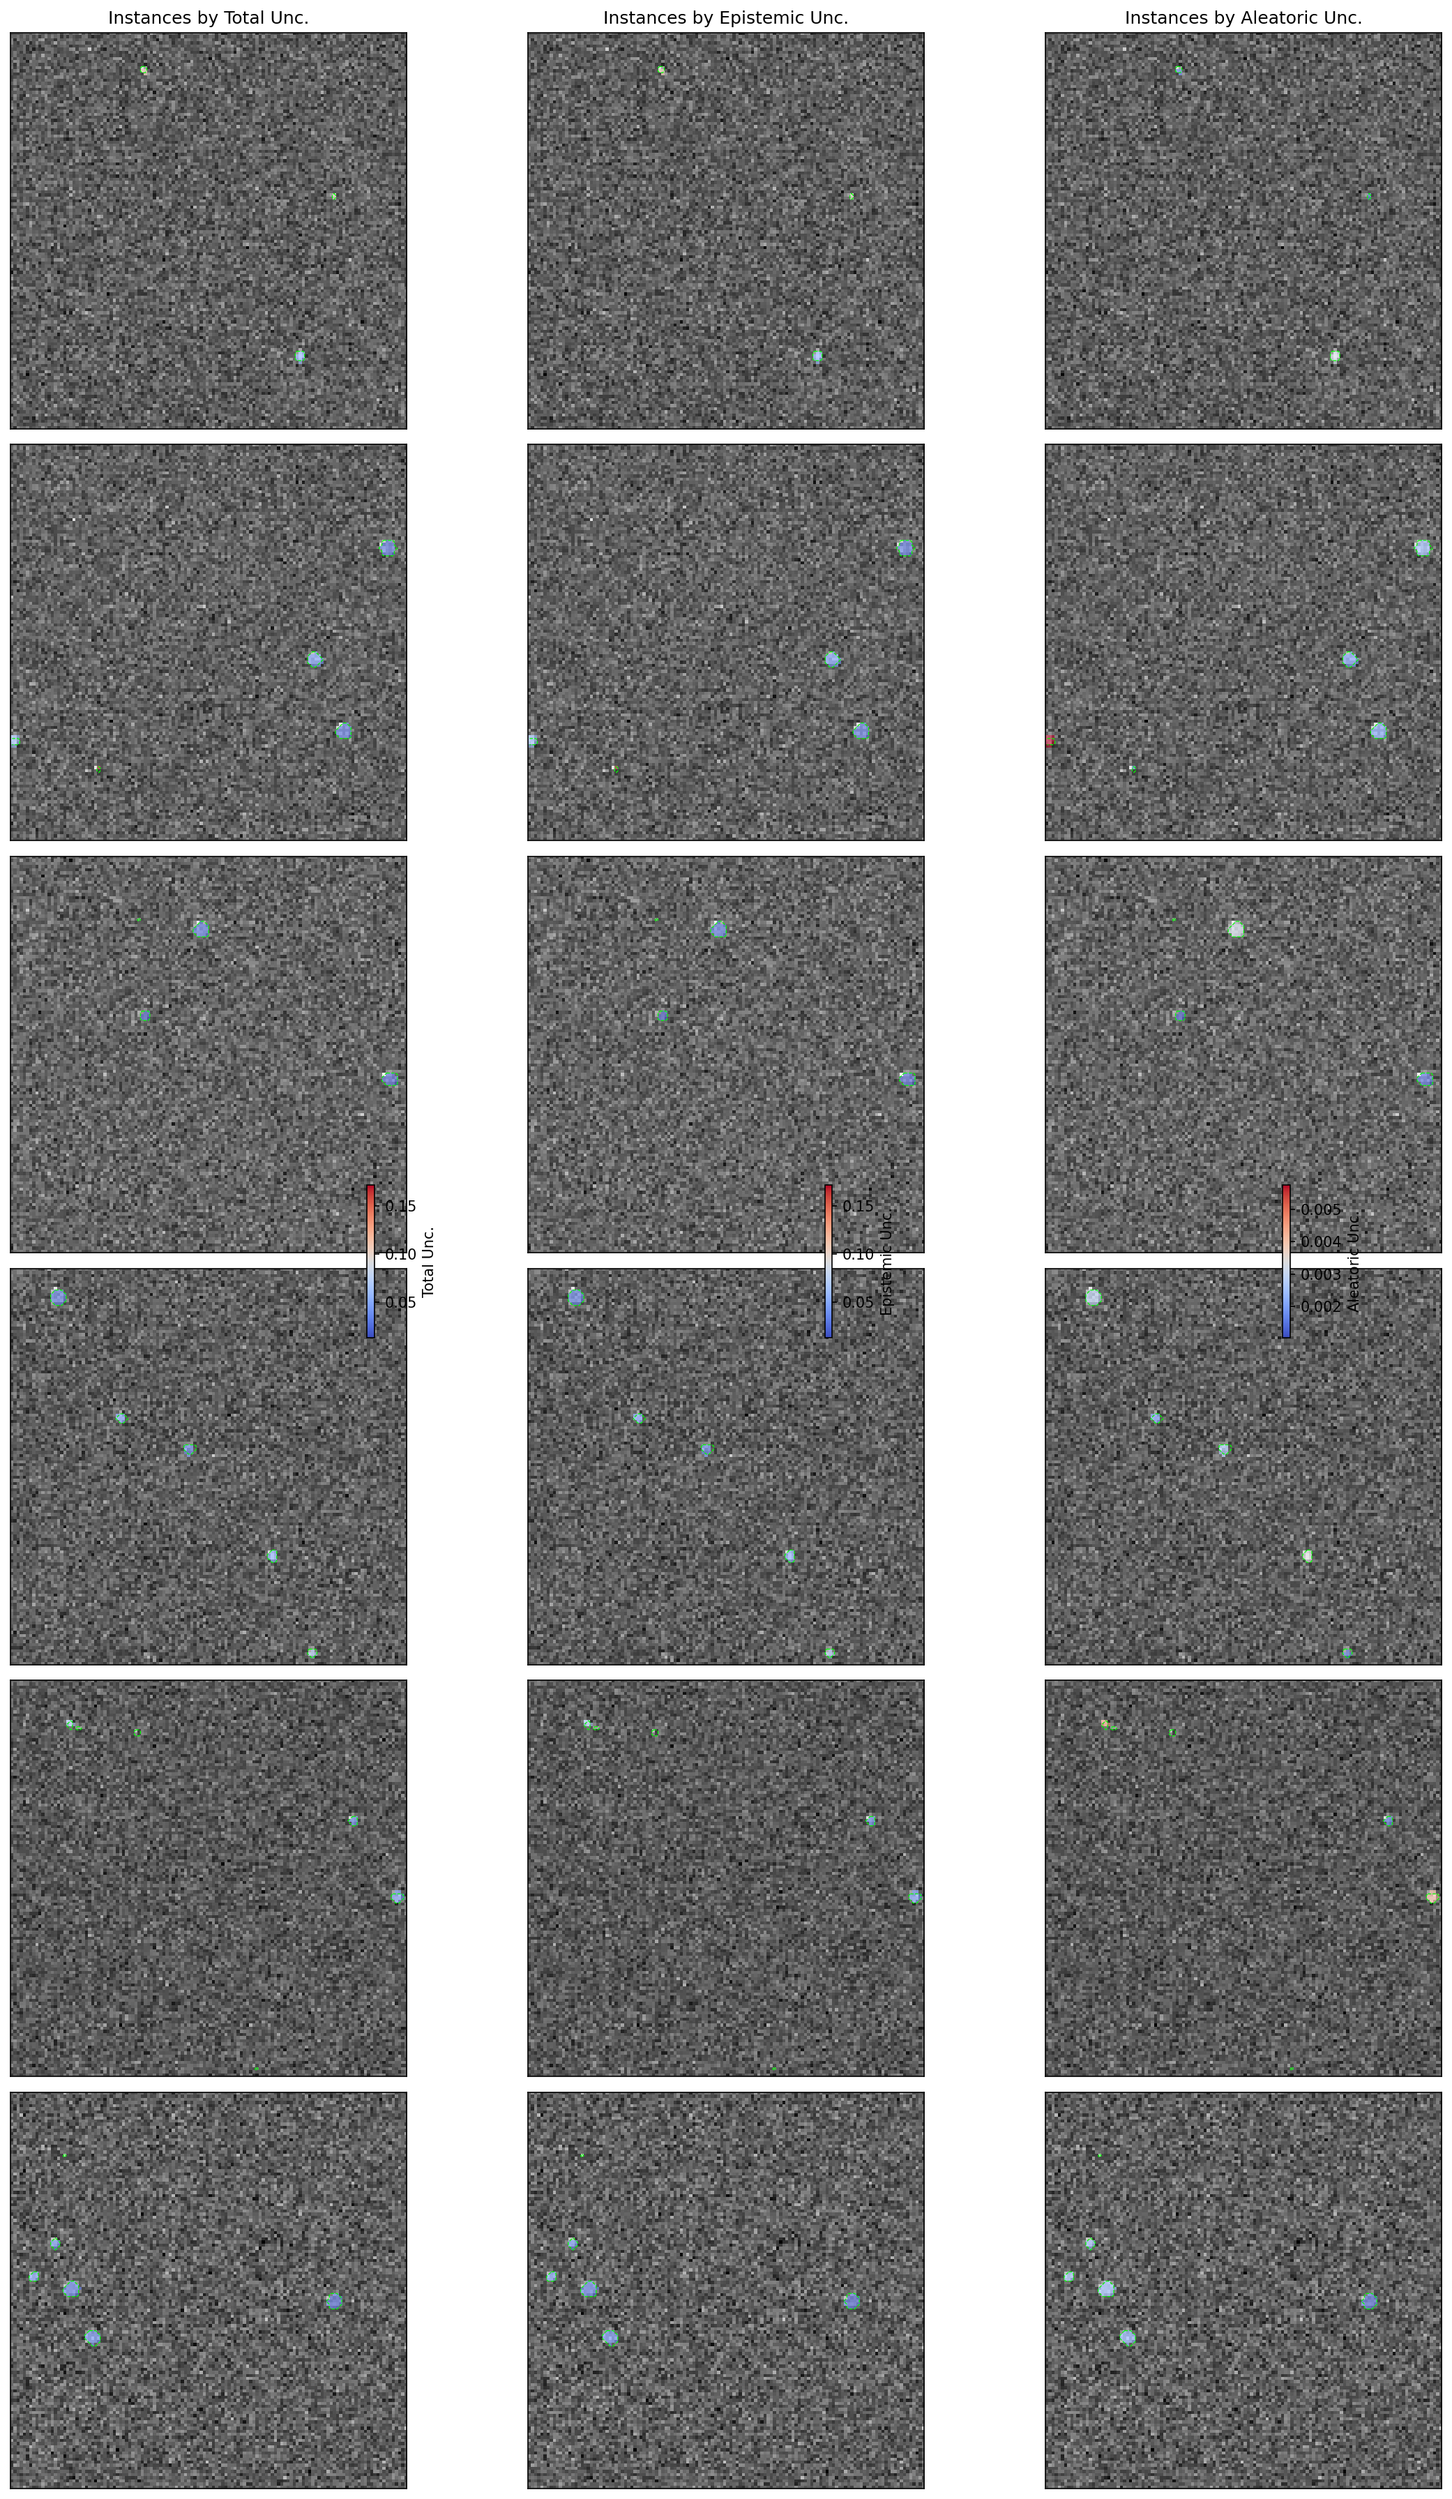
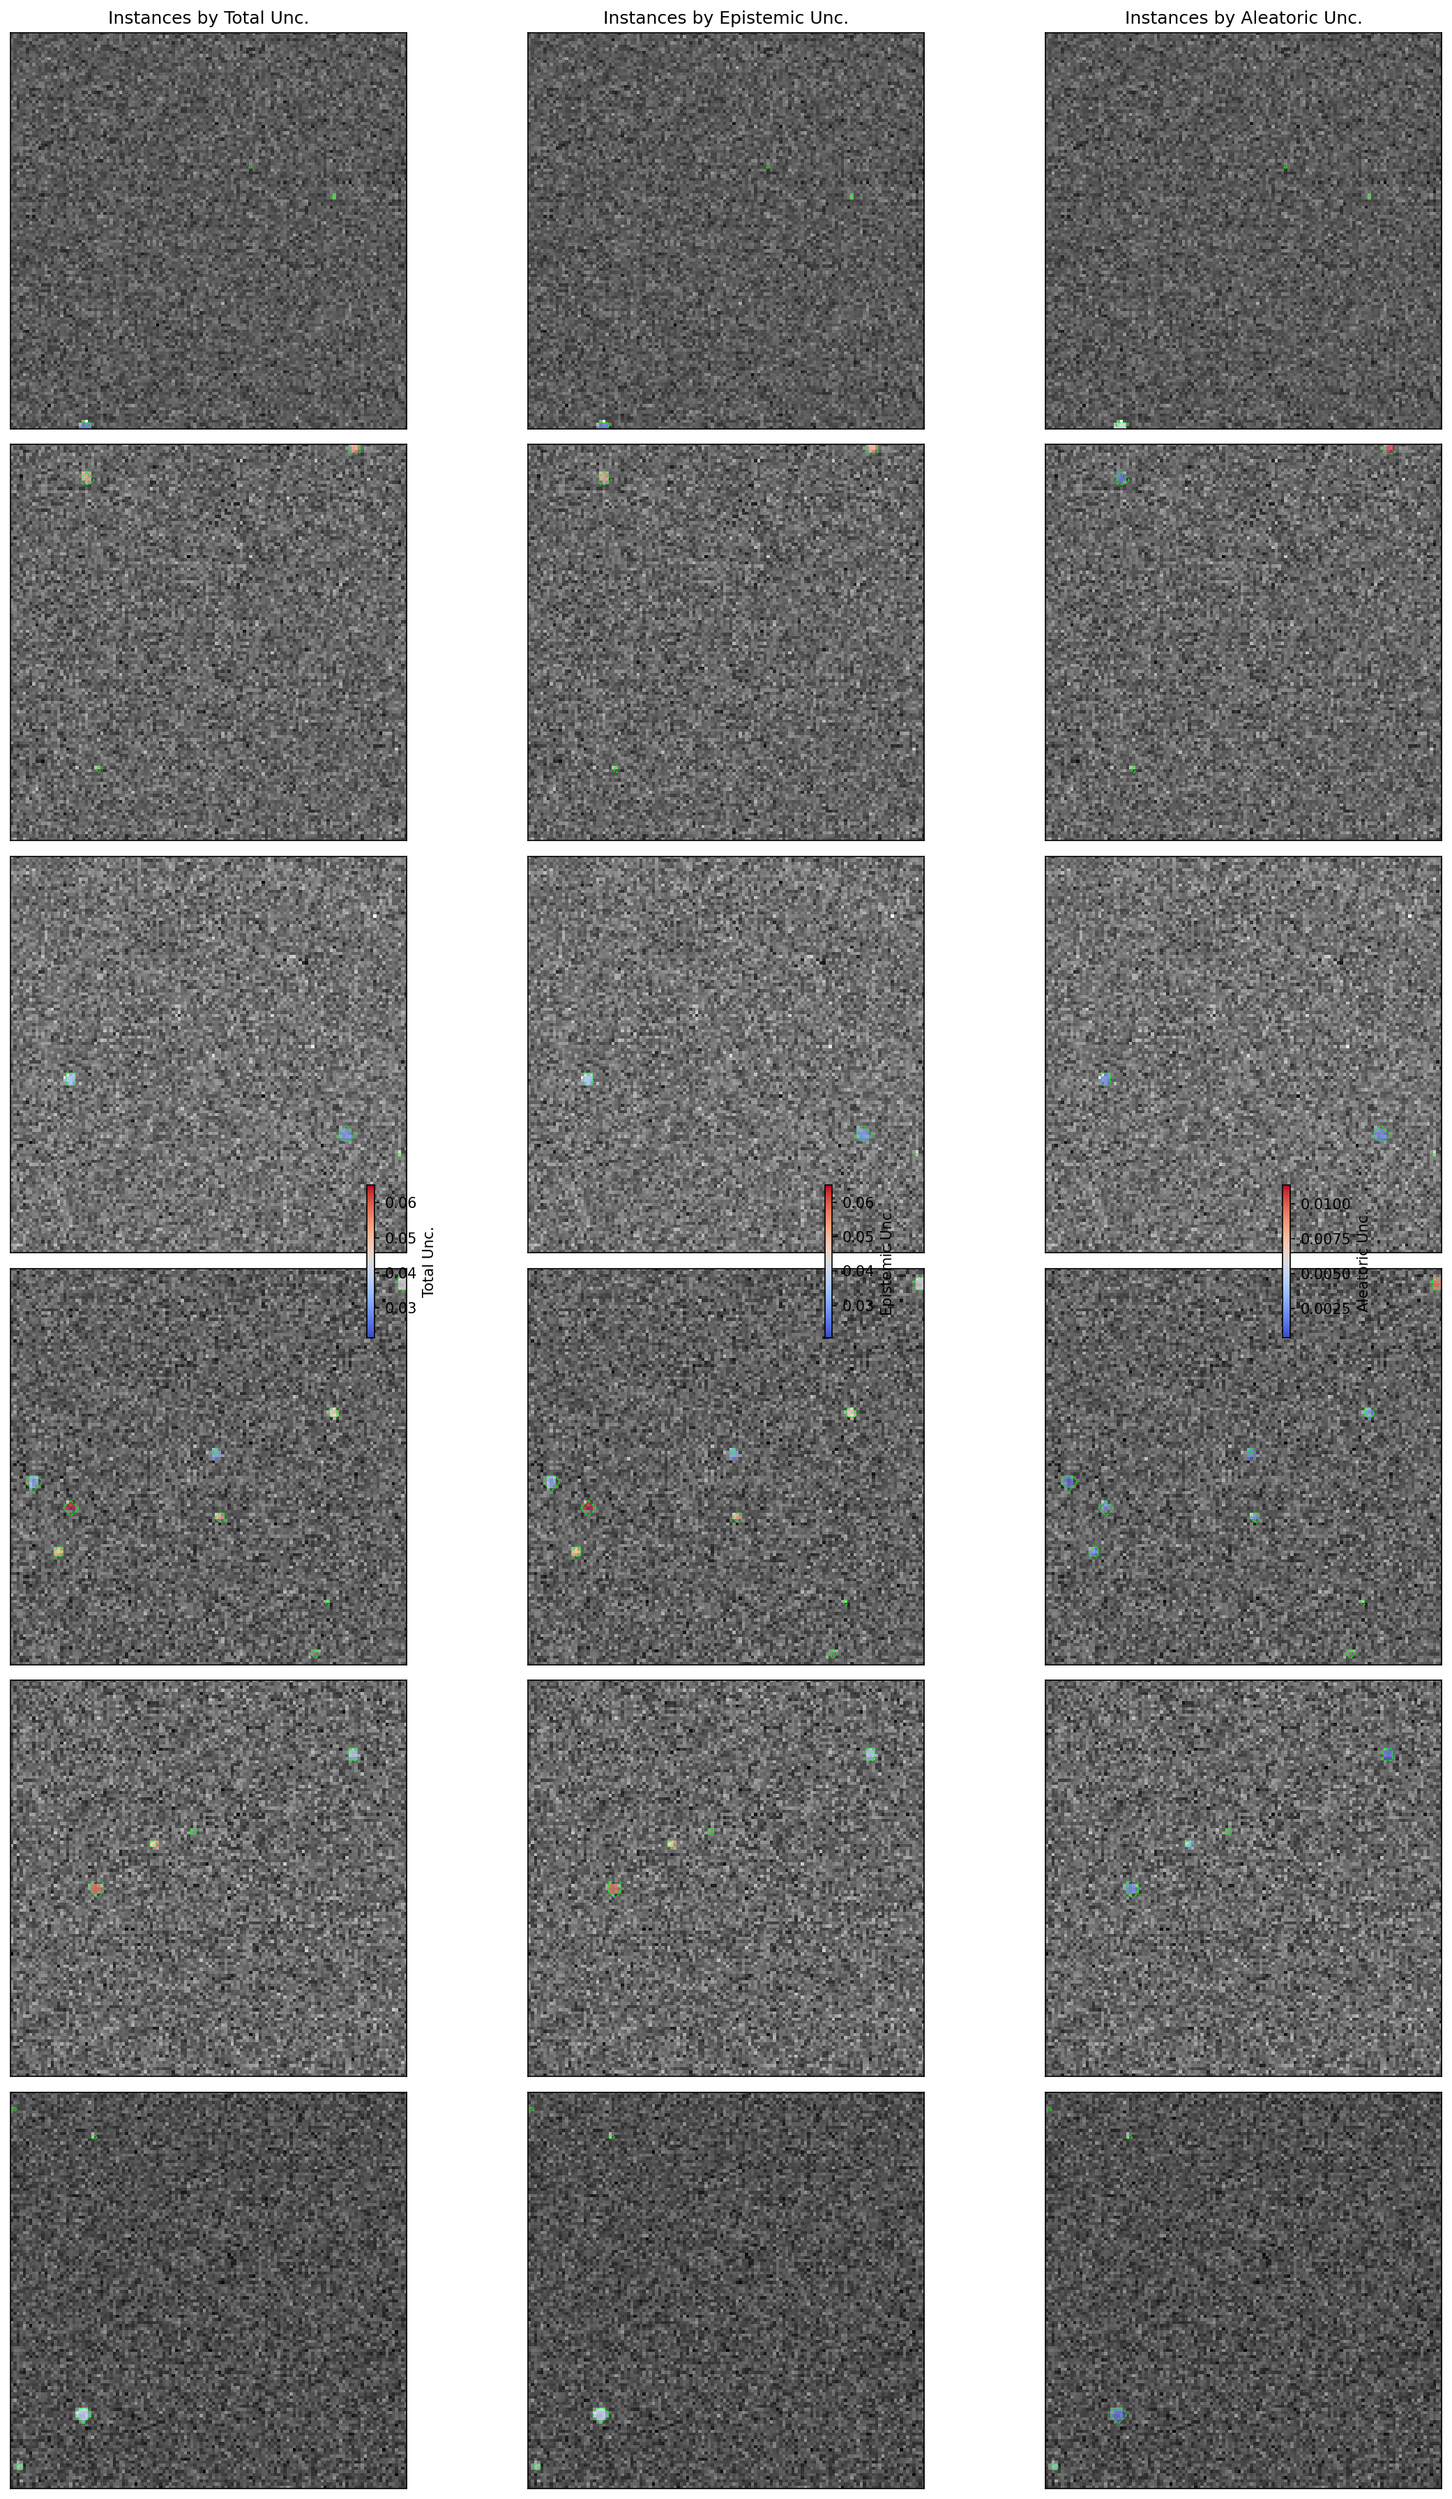
Randomize blob intensity (5-30) and regenerate all results
Changed generate_blob_images.py to sample blob intensity from
rng.integers(5, 31) instead of fixed +20. This creates a harder
task with faint and bright blobs, making uncertainty more meaningful.

Updated results (variable intensity):
- Mean blob IoU: 0.818 -> 0.747 (faint blobs harder to detect)
- Missed GT: 81 -> 113 (more faint blobs below detection threshold)
- Object AUCO improved: uncertainty better tracks difficulty
- Epistemic uncertainty now dominates (faint blobs = model unsure)

https://claude.ai/code/session_01PLh7e4Z6N39ijonJ4wvgUC

diff --git a/generate_blob_images.py b/generate_blob_images.py
@@ -50,7 +50,7 @@ def generate_blob_images(N, save_dir="generated_data", seed=None):
             blob_mask = dist <= radius
 
             masks[:, :, b] = blob_mask.astype(np.uint8)
-            image[blob_mask] += 20
+            image[blob_mask] += rng.integers(5, 31)
 
         # Poisson noise: clamp to >= 0 since Poisson requires non-negative lambda
         image = np.clip(image, 0, None)
